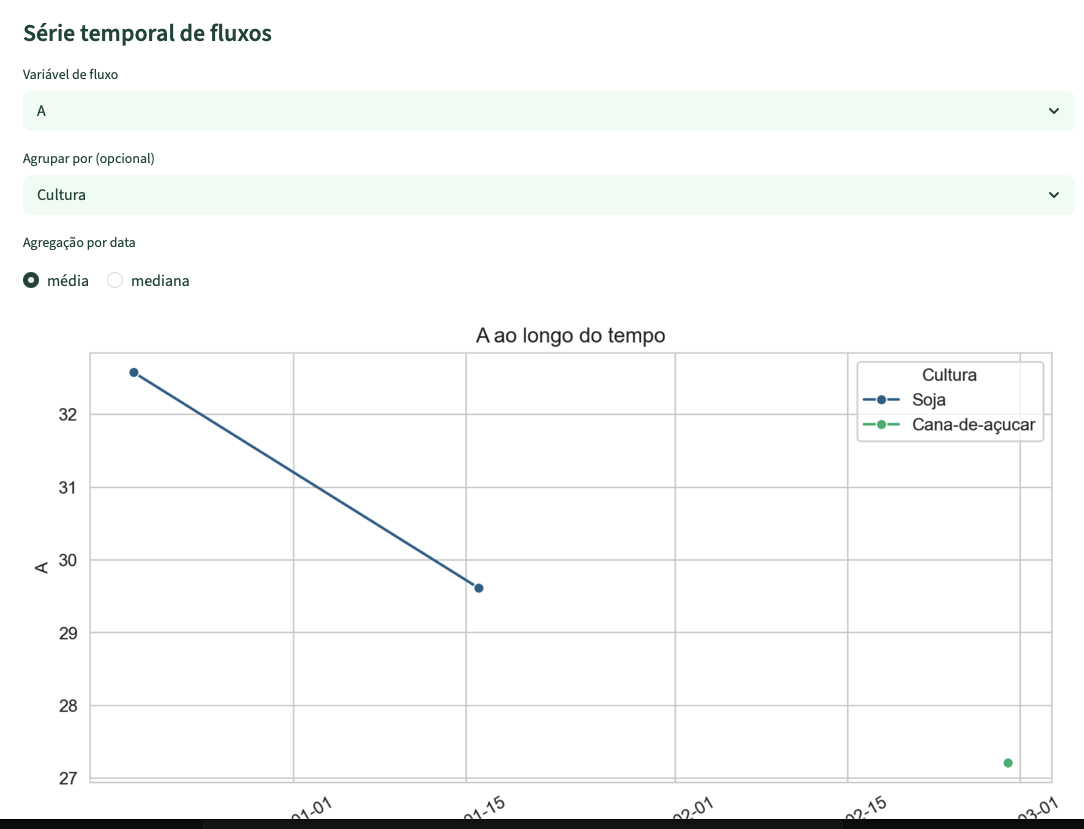
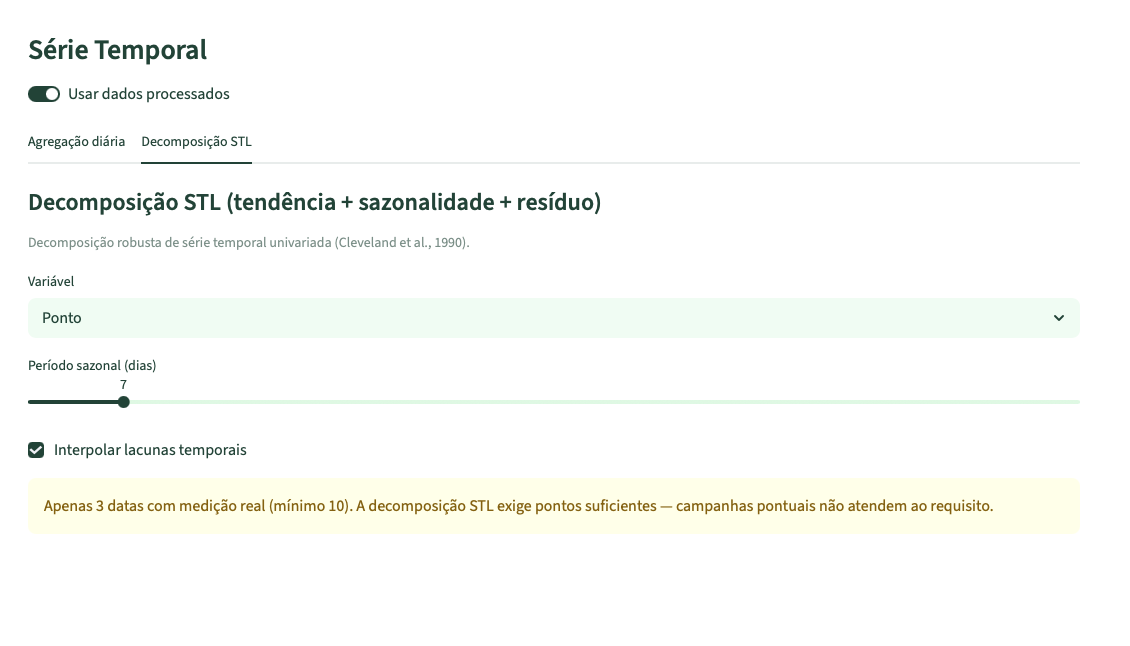
feat: update manual, settings, pages init and add comparative docs images

diff --git a/src/pages/__init__.py b/src/pages/__init__.py
@@ -1,8 +1,10 @@
+from src.pages.comparative import render as render_comparative_page
 from src.pages.eda import render as render_eda_page
 from src.pages.modeling import render as render_modeling_page
 from src.pages.pipeline import render as render_pipeline_page
 from src.pages.regression import render as render_regression_page
 from src.pages.spatial import render as render_spatial_page
+from src.pages.timeseries import render as render_timeseries_page
 from src.pages.upload import render as render_upload_page
 
 PAGE_RENDERERS = {
@@ -12,6 +14,8 @@ PAGE_RENDERERS = {
     "regression": render_regression_page,
     "modeling": render_modeling_page,
     "spatial": render_spatial_page,
+    "timeseries": render_timeseries_page,
+    "comparative": render_comparative_page,
 }
 
 __all__ = ["PAGE_RENDERERS"]

diff --git a/src/config/settings.py b/src/config/settings.py
@@ -74,6 +74,8 @@ NAVIGATION_ITEMS = [
     NavigationItem(key="regression", label_key="nav.regression", icon="graph-up-arrow"),
     NavigationItem(key="modeling", label_key="nav.modeling", icon="cpu"),
     NavigationItem(key="spatial", label_key="nav.spatial", icon="geo-alt"),
+    NavigationItem(key="timeseries", label_key="nav.timeseries", icon="clock-history"),
+    NavigationItem(key="comparative", label_key="nav.comparative", icon="bar-chart-steps"),
 ]
 
 PIPELINE_DROP_CANDIDATES = [

diff --git a/docs/manual.pt.md b/docs/manual.pt.md
@@ -877,30 +877,341 @@ Mostra os pontos amostrais coloridos por uma variável, **sobrepostos aos limite
 
 ## 10. Série temporal
 
-*[A ser preenchido na próxima iteração.]*
+> Página **Série Temporal** no menu lateral.
+
+Esta página é específica para análise **univariada longitudinal** — agrega uma variável por dia e, opcionalmente, decompõe a série em componentes de tendência, sazonalidade e resíduo. **Diferente da aba Temporal do EDA** (§6.8), aqui o foco é a **estrutura temporal formal** da série, não apenas a visualização exploratória.
+
+### 10.1 Detecção da coluna de data
+
+O app procura automaticamente uma coluna de data candidata: `Data da coleta`, `Data`, `Date`, `DATE_TIME initial_value` e similares (lista canônica em [`src/pipeline.py`](../src/pipeline.py) na função `find_date_column`). Desde a v1.1, a detecção também coage colunas com **dtype `object` contendo mistura de `datetime.datetime` + `str` + `NaN`** — caso típico do Excel exportado em datasets de campo.
+
+Se nenhuma coluna for detectada, a página exibe **"Coluna de data não encontrada"** e fica vazia. Verifique no Excel se a coluna de data está nomeada conforme uma das variantes aceitas e se as células estão como **datas reais** (não como texto).
+
+### 10.2 Agregação diária
+
+> Aba **Agregação diária**.
+
+Configurações:
+
+* **Variáveis para plotar** (multiselect) — uma ou mais.
+* **Método de agregação** (radio) — média ou mediana por dia.
+
+Cada variável vira uma linha colorida; o eixo X mostra as datas com formatação automática. Para o dataset Rio Verde, com apenas 3 datas de coleta, o gráfico aparece como 3 pontos ligados — útil para visualizar a evolução temporal, mas pouco interpretável estatisticamente.
+
+### 10.3 Decomposição STL
+
+> Aba **Decomposição STL**.
+
+A decomposição STL (*Seasonal-Trend decomposition using LOESS*, Cleveland et al., 1990) separa uma série temporal em três componentes:
+
+* **Tendência** — variação lenta de longo prazo.
+* **Sazonalidade** — padrão cíclico que se repete com período fixo.
+* **Resíduo** — ruído após remover tendência e sazonalidade.
+
+**Configurações:**
+
+* **Variável-alvo** (default: `FCO2_DRY` se existir, senão a primeira numérica).
+* **Período sazonal (dias)** — slider 2 a 60. Padrão 7 (sazonalidade semanal).
+* **Interpolar lacunas temporais** (checkbox) — preenche dias sem medição por interpolação linear no tempo.
+
+#### Guard-rails da STL
+
+Para evitar interpretações enganosas, o app impõe **dois bloqueios**:
+
+![Aviso de poucas datas para STL](img/manual/24_temporal_stl_bloqueado.png)
+
+| Condição | O que acontece |
+|---|---|
+| Menos de **10 datas com medição real** | A STL é bloqueada com aviso: *"Apenas N datas com medição real (mínimo 10). A decomposição STL exige pontos suficientes — campanhas pontuais não atendem ao requisito."* |
+| Interpolação cobre **mais de 70 %** da série | A STL roda, mas com aviso destacado: as métricas de força de tendência/sazonalidade refletem em grande parte a própria interpolação, não o sinal observado. |
+
+> **No dataset Rio Verde:** apenas 3 datas distintas (Dez/2025, Jan/2026, Fev/2026) → o app bloqueia a STL com mensagem clara. Este é o comportamento correto; a decomposição precisaria de campanhas mensais (~12 datas) ou semanais (~10+) para ser estatisticamente honesta.
+
+#### Saída quando a STL roda
+
+Quando há dados suficientes, a página produz quatro gráficos empilhados (Observado, Tendência, Sazonalidade, Resíduo) e três métricas:
+
+* **Força de tendência** — `1 − Var(resíduo) / Var(observado − sazonal)`. Próximo de 1 = tendência muito clara.
+* **Força de sazonalidade** — `1 − Var(resíduo) / Var(observado − tendência)`. Próximo de 1 = sazonalidade muito clara.
+* **n** — número de pontos da série após agregação/interpolação.
+
+---
 
 ## 11. Comparação por grupos
 
-*[A ser preenchido na próxima iteração.]*
+> Página **Comparação por grupo** no menu lateral.
+
+Esta página implementa o caso de uso clássico **"o Grupo A difere do Grupo B?"** com ferramentas estatísticas robustas. Diferentemente da aba Boxplot do EDA (§6.4), aqui você tem:
+
+* **Definição flexível dos grupos** — escolha manual de quais valores entram em A e B, ou pattern matching por substring.
+* **Teste estatístico formal** — Mann-Whitney U *two-sided* para cada variável.
+* **Regressão log-linear por grupo** — ajusta a relação log(Y) ~ X separadamente em A e B.
+* **Padrão horário** — agrega Y por hora do dia para cada grupo (útil para fluxos diurnos vs. noturnos).
+
+### 11.1 Configuração dos grupos
+
+![Configuração de Comparativa: Cana vs. Soja](img/manual/25_comparativa_setup.png)
+
+**Coluna categórica** — selectbox no topo. Define qual coluna será particionada em dois grupos. Padrão: `Cultura`.
+
+**Duas vias de definir A e B:**
+
+#### Modo manual (padrão)
+
+Dois multiselects, lado a lado:
+
+* **Valores no Grupo A** + rótulo customizável (default: primeiro valor da coluna).
+* **Valores no Grupo B** + rótulo customizável (default: o segundo valor).
+
+Você pode atribuir múltiplos valores a um mesmo grupo (ex.: agrupar "R1", "R2", "R3" num só "Estágio reprodutivo precoce").
+
+> **Validação automática:** se algum valor aparecer nos dois lados, o app exibe `st.error` e impede o avanço.
+
+#### Modo pattern matching
+
+Marque o checkbox **Classificar automaticamente por padrão de texto**. Aparece um campo de texto onde você digita um padrão (case-insensitive):
+
+* Valores que **contêm** o padrão → Grupo A (Match).
+* Valores que **não contêm** → Grupo B (Other).
+
+Útil quando a coluna tem muitos níveis (ex.: 14 estágios fenológicos) e você quer rapidamente separar "tudo que contém 'maturação'" do resto. O app mostra a lista de cada grupo em caption para você conferir antes de analisar.
+
+#### Métricas de N por grupo
+
+Após a configuração, duas métricas grandes mostram quantas linhas caíram em cada grupo:
+
+> **No dataset Rio Verde (modo Desdobrar):** Cana-de-açúcar = 54, Soja = 104. Em modo Média seria 27 vs. 54 — siga atento ao número porque ele governa o poder estatístico dos testes que vêm em seguida.
+
+### 11.2 Resumo & teste — Mann-Whitney U
+
+> Primeira aba dentro da Comparativa.
+
+Para cada variável numérica selecionada, devolve dois blocos:
+
+**Tabela de resumo descritivo** (`group`, `variable`, `n`, `mean`, `se`, `median`):
+
+**Tabela de teste de Mann-Whitney U:**
+
+![Tabela Mann-Whitney na Comparativa](img/manual/26_comparativa_mannwhitney.png)
+
+| Coluna | Significado |
+|---|---|
+| `variable` | A variável testada. |
+| `g1`, `g2` | Rótulos dos grupos. |
+| `n_g1`, `n_g2` | Tamanho de cada grupo. |
+| `U` | Estatística de Mann-Whitney. |
+| `p_value` | Probabilidade sob H₀ (mesma distribuição). |
+| `significant_5%` | `True` se p < 0,05. |
+
+#### Quando o Mann-Whitney é apropriado
+
+| Condição | Implicação |
+|---|---|
+| Os dois grupos têm forma de distribuição **similar** | Mann-Whitney compara medianas (interpretação direta). |
+| Distribuições têm formas **diferentes** | Mann-Whitney compara distribuições globais (rejeição não significa "mediana diferente", mas "distribuição diferente"). |
+| Há **pseudoreplicação** (réplicas no mesmo sítio) | n inflado → p artificialmente pequeno. Considere agregar por sítio (modo de réplica Média ou Mediana) antes de comparar. |
+
+> **No dataset Rio Verde:** rodando Cana vs. Soja em Latitude e Longitude, os p-values são da ordem de 10⁻⁸ — o que **não** significa que cana e soja têm "latitudes diferentes" no sentido fisiológico. Significa que **as duas fazendas estão em locais geograficamente distintos** e cada uma tem só uma cultura (lembre o confundimento Fazenda ⟷ Cultura). Para um achado biologicamente significativo, teste variáveis fisiológicas (`A`, `gs`, `E`, etc.) e leia em conjunto com a aba de Confundimento (§6.2).
+
+### 11.3 Log-linear por grupo
+
+> Segunda aba dentro da Comparativa.
+
+Ajusta uma regressão linear simples em escala **log(Y)** versus X, **separadamente para cada grupo**. Útil quando a relação Y-X é exponencial ou multiplicativa (saturação, decaimento).
+
+**Configurações:**
+
+* **Variável Y** (numérica) — só valores **estritamente positivos** entram (log(0) e log negativo são descartados silenciosamente).
+* **Variável X** (numérica).
+
+Saída: scatter colorido por grupo + retas ajustadas + tabela com `intercept`, `slope`, `R²`, `p_value`, `se_slope` por grupo.
+
+> **Cuidado quando Y tem valores ≤ 0:** o app descarta essas linhas antes do log. Se um grupo tem muitos negativos (caso de FCO2_DRY em uptake, FCH4_DRY em sumidouro), você compara N drasticamente diferentes entre os grupos, **comprometendo a comparabilidade**. Verifique sempre o `n` reportado em cada grupo no gráfico.
+
+### 11.4 Padrão horário
+
+> Terceira aba dentro da Comparativa.
+
+Para datasets com coluna de **data/hora** (não apenas data), extrai a hora de cada medição e calcula a média/mediana de Y por hora-do-dia, separadamente para cada grupo.
+
+Saída: dois gráficos lado a lado:
+
+* **Esquerda:** média (ou mediana) por hora, linha por grupo.
+* **Direita:** soma cumulativa por hora — útil para visualizar fluxo acumulado ao longo do dia (ex.: emissão de CO₂ diurna).
+
+Tabela exportável como CSV.
+
+> **No dataset Rio Verde:** a coluna `Data da coleta` tem apenas a parte de data (sem hora), então todas as medições caem na hora `00:00`. A aba fica visualmente vazia, exceto pela barra única em zero. Em datasets de fluxo de solo com timestamp completo (IRGA medindo a cada 1-2 horas) a aba é muito mais útil.
+
+---
 
 ## 12. Glossário estatístico
 
-*[A ser preenchido na próxima iteração.]*
+Definições curtas dos termos técnicos usados no manual. Para aprofundamento, ver as Referências (§14).
+
+* **Anderson-Darling** — teste de normalidade sensível a desvios nas caudas. Devolve estatística A² e valor crítico a 5 %; rejeita se A² > crítico.
+* **Cramér's V** — medida de associação entre duas variáveis categóricas, no intervalo [0, 1]. V=1 indica equivalência perfeita; usado no app para detectar confundimento.
+* **D'Agostino-Pearson (K²)** — teste de normalidade que combina assimetria e curtose. Robusto a empates; recomendado para n moderado.
+* **Elliptic Envelope** — método de detecção de outliers que assume **normalidade multivariada**. Pouco confiável em dados bimodais ou fortemente assimétricos.
+* **Getis-Ord Gi*** — estatística local que classifica cada ponto como hotspot (cluster de altos), coldspot (cluster de baixos) ou não significativo, com base em sua vizinhança via banda de distância.
+* **GroupKFold** — variante de validação cruzada que mantém todas as linhas de um mesmo "grupo" (sítio, fazenda, ponto) no mesmo fold. Evita inflar o R² quando há pseudoreplicação.
+* **IDW (Inverse Distance Weighting)** — interpolação determinística que estima cada ponto do grid como média ponderada dos pontos amostrados, com peso ∝ 1/distância^power.
+* **Isolation Forest** — algoritmo de detecção de outliers baseado em árvores aleatórias. Não-paramétrico, escala bem para muitas dimensões.
+* **Kruskal-Wallis (KW)** — teste não-paramétrico que compara distribuições entre 2 ou mais grupos. Equivale ao Mann-Whitney quando há exatamente 2 grupos.
+* **Kriging ordinária** — interpolação **estatística** baseada na estrutura espacial dos dados, ajustada via variograma. Devolve estimativas + incerteza.
+* **LISA (Local Indicators of Spatial Association)** — versão local do Moran's I; classifica cada ponto em HH, HL, LH, LL ou NS conforme seu valor e o da sua vizinhança.
+* **LOF (Local Outlier Factor)** — método de outliers baseado em densidade local. Marca pontos cuja vizinhança é menos densa que a dos seus vizinhos.
+* **Mann-Whitney U** — teste não-paramétrico para comparar duas amostras independentes. Equivalente ao Kruskal-Wallis com k=2.
+* **Moran's I** — índice de autocorrelação espacial global, no intervalo [-1, +1]. Positivo → valores similares se agrupam no espaço.
+* **Pearson (r)** — coeficiente de correlação linear. Sensível a outliers; pressupõe relação linear.
+* **Pseudoreplicação** — quando réplicas (medições) do mesmo sítio são tratadas como observações independentes. Infla o n efetivo e gera p-values otimistas.
+* **Q-Q plot** — gráfico que compara os quantis amostrais aos teóricos da normal. Pontos alinhados na diagonal indicam normalidade visual.
+* **Shapiro-Wilk (W)** — teste de normalidade. O mais sensível para n < 5000; padrão na literatura.
+* **Spearman (ρ)** — coeficiente de correlação por postos. Robusto a outliers e capta relações monotônicas não-lineares.
+* **STL (Seasonal-Trend decomposition using LOESS)** — decompõe uma série temporal em tendência, sazonalidade e resíduo via regressão local robusta.
+* **UTM (Universal Transverse Mercator)** — sistema de projeção cartográfica em metros. Rio Verde, GO fica no fuso 22 Sul (EPSG 32722).
+* **Variograma** — função que descreve a semivariância entre pares de pontos em função da distância. Parâmetros: nugget (variância em h=0), sill (assíntota) e range (distância em que estabiliza).
+* **VIF (Variance Inflation Factor)** — mede multicolinearidade. VIF=1/(1-R²) onde R² vem da regressão da variável contra todas as outras. VIF ≥ 10 indica colinearidade severa.
+* **Z-score** — número de desvios-padrão acima/abaixo da média. Critério |z|>3 marca outliers; **não-robusto** (o próprio outlier infla o desvio-padrão).
+
+---
 
 ## 13. Solução de problemas (FAQ)
 
-*[A ser preenchido na próxima iteração.]*
+### "Aparece `sidebar.rep.media` (ou outra chave crua) em vez do texto traduzido"
+
+O Streamlit cacheia o módulo de traduções no primeiro import. Se você atualizou o app após o servidor já estar rodando, as novas chaves não aparecem até reiniciar. **Solução:** `Ctrl+C` no terminal e `python -m streamlit run app.py` novamente.
+
+### "O pipeline esvaziou meu dataset (ou removeu quase tudo)"
+
+Vá em **Pipeline e Processamento** e leia o aviso amarelo destacado. A causa quase sempre é a etapa 2 — uma das colunas obrigatórias (`Cultura`, `Uso atual` ou `Época`) está vazia em muitas linhas. Volte ao Excel, identifique qual coluna está faltando, e refaça o upload com a planilha corrigida.
+
+### "A página Série Temporal diz 'Coluna de data não encontrada'"
+
+Verifique no Excel se sua coluna se chama `Data da coleta`, `Data`, `Date`, `DATE_TIME initial_value` ou alguma variante reconhecida (lista completa em [`docs/data_dictionary.md`](data_dictionary.md)). Se o nome estiver certo, abra a coluna e verifique se as células estão como **datas reais** (Excel mostra `2025-12-19` à direita) e não como **texto** ("2025-12-19" à esquerda). Salve o arquivo e recarregue.
+
+### "GroupKFold reduziu meus folds automaticamente"
+
+Significa que o número de grupos únicos na coluna escolhida é menor que o número de folds que você configurou. Por exemplo: você pediu 5 folds, mas só há 4 fazendas — o app ajusta para 4 folds. Se quiser manter os 5 folds, escolha uma coluna de agrupamento com mais níveis (ex.: `Fazenda + Ponto` em vez de só `Fazenda`).
+
+### "Algumas variáveis aparecem com VIF infinito ou astronômico"
+
+Isso é esperado para **variáveis derivadas matematicamente** de outras: `Ci/Ca` é Ci dividido por Ca (com Ca quase constante, vira reescala de Ci); `EUA = A/E`; `A/Ci` é uma razão; `ETR` é função de YII. VIF alto entre essas indica multicolinearidade **por construção**, não por problema dos dados. Inclua só uma representante do par derivado nos modelos.
+
+### "Moran's I deu 0,9 — meus dados são extremamente agregados espacialmente?"
+
+Antes de comemorar a descoberta de um cluster, confira a aba **Qualidade do EDA → Confundimento entre categorias**. Se `Fazenda ⟷ Cultura` (ou similar) aparecer como redundante, o Moran's I está captando **diferença biológica entre culturas** mais do que autocorrelação espacial verdadeira. Refaça o Moran filtrando para uma única cultura via filtro global, e veja se o índice permanece alto.
+
+### "O variograma de kriging não estabiliza"
+
+Provavelmente seu dataset não tem **estrutura espacial detectável** na escala do experimento (poucos pontos amostrais, ou variável dominada por outros fatores que não a posição). Não rode a krigagem nessa situação — os parâmetros ajustados (range em milhões de metros) são numericamente válidos mas estatisticamente inúteis. Considere voltar ao IDW (§9.1) ou rever a coleta.
+
+### "Os modos de réplica `Réplica 1`, `Réplica 2` e `Réplica 3` parecem dar resultados diferentes para Chl a e b"
+
+São diferentes mesmo — cada um pega uma medição específica da planilha. `Réplica 1` usa a coluna `Chl a` original; `Réplica 2` usa `Chl a.1`. **Réplica 3 deixa Chl a/b vazios** (só existe `IAF.2`, não `Chl a.2`). Use estes modos quando quiser auditar/comparar leituras específicas; para análise normal, use **Média** ou **Mediana**.
+
+---
 
 ## 14. Referências
 
-*[A ser preenchido na próxima iteração.]*
+### Métodos estatísticos
+
+* Anderson, T. W., & Darling, D. A. (1952). Asymptotic theory of certain "goodness of fit" criteria based on stochastic processes. *Annals of Mathematical Statistics*, 23(2), 193-212.
+* Bergsma, W., & Wicher, M. (2013). A bias-correction for Cramér's V and Tschuprow's T. *Journal of the Korean Statistical Society*, 42(3), 323-328.
+* Cleveland, R. B., Cleveland, W. S., McRae, J. E., & Terpenning, I. (1990). STL: A seasonal-trend decomposition procedure based on loess. *Journal of Official Statistics*, 6(1), 3-73.
+* D'Agostino, R. B., Belanger, A., & D'Agostino Jr., R. B. (1990). A suggestion for using powerful and informative tests of normality. *American Statistician*, 44(4), 316-321.
+* Getis, A., & Ord, J. K. (1992). The analysis of spatial association by use of distance statistics. *Geographical Analysis*, 24(3), 189-206.
+* Kruskal, W. H., & Wallis, W. A. (1952). Use of ranks in one-criterion variance analysis. *JASA*, 47(260), 583-621.
+* Mann, H. B., & Whitney, D. R. (1947). On a test of whether one of two random variables is stochastically larger than the other. *Annals of Mathematical Statistics*, 18(1), 50-60.
+* Moran, P. A. P. (1948). The interpretation of statistical maps. *Journal of the Royal Statistical Society, Series B*, 10(2), 243-251.
+* Shapiro, S. S., & Wilk, M. B. (1965). An analysis of variance test for normality. *Biometrika*, 52(3-4), 591-611.
+
+### Outliers e modelagem
+
+* Breunig, M. M., Kriegel, H. P., Ng, R. T., & Sander, J. (2000). LOF: Identifying density-based local outliers. *SIGMOD Record*, 29(2), 93-104.
+* Liu, F. T., Ting, K. M., & Zhou, Z. H. (2008). Isolation forest. *ICDM*, 413-422.
+* Rousseeuw, P. J., & van Driessen, K. (1999). A fast algorithm for the minimum covariance determinant estimator. *Technometrics*, 41(3), 212-223.
+
+### Fisiologia vegetal
+
+* Farquhar, G. D., von Caemmerer, S., & Berry, J. A. (1980). A biochemical model of photosynthetic CO₂ assimilation in leaves of C3 species. *Planta*, 149(1), 78-90.
+
+### Bibliotecas
+
+* McKinney, W. (2010). pandas — Data analysis with Python. <https://pandas.pydata.org>
+* Pedregosa, F. et al. (2011). Scikit-learn: Machine learning in Python. *JMLR*, 12, 2825-2830.
+* Rey, S. J., & Anselin, L. (2010). PySAL: A Python library of spatial analytical methods. <https://pysal.org>
+* Seabold, S., & Perktold, J. (2010). statsmodels: Econometric and statistical modeling. <https://www.statsmodels.org>
+* Streamlit Inc. (2024). Streamlit. <https://streamlit.io>
+* Virtanen, P. et al. (2020). SciPy 1.0. *Nature Methods*, 17, 261-272.
 
 ## 15. Contribuindo
 
 Encontrou um bug, tem uma sugestão de melhoria ou quer adicionar uma análise nova?
 
-* **Bug ou pedido de feature:** abra uma issue no repositório do projeto no GitHub.
-* **Contribuir com código ou documentação:** veja [`docs/contributing.md`](contributing.md) para o fluxo de PRs, padrões de teste e como adicionar traduções.
+### 15.1 Reportando bugs e propondo features
+
+Abra uma issue no repositório do projeto no GitHub. Inclua:
+
+1. **Versão do app** (verifique no rodapé ou no `pyproject.toml`).
+2. **Passos para reproduzir** — comece sempre por "fui à aba X, cliquei em Y, esperava Z mas vi W".
+3. **Captura de tela** (se for um problema visual).
+4. **Trecho do dataset** (anonimizado) que dispara o problema, sempre que possível.
+
+### 15.2 Contribuindo com código
+
+* Veja [`docs/contributing.md`](contributing.md) para o fluxo de PRs e padrões de teste.
+* Veja [`docs/architecture.md`](architecture.md) para entender o layout dos módulos.
+* Veja [`docs/i18n.md`](i18n.md) para adicionar um novo idioma ou estender as traduções.
+
+### 15.3 Gerando este manual em PDF
+
+A fonte canônica deste manual é o arquivo Markdown que você está lendo (`docs/manual.pt.md`). O PDF é um derivado, gerado por [pandoc](https://pandoc.org/) + XeLaTeX.
+
+#### Localmente
+
+```bash
+# 1) Pré-requisitos (uma vez por máquina)
+brew install pandoc                       # macOS
+brew install --cask basictex
+sudo tlmgr install fancyhdr xurl booktabs longtable
+
+# Ubuntu equivalente:
+# sudo apt-get install pandoc texlive-xetex \
+#   texlive-fonts-recommended texlive-latex-recommended
+
+# 2) Gerar o PDF
+scripts/build_manual_pdf.sh                       # → docs/manual.pt.pdf
+scripts/build_manual_pdf.sh --lang en             # quando existir manual.en.md
+scripts/build_manual_pdf.sh --output /tmp/x.pdf   # caminho customizado
+```
+
+O PDF é gerado em `docs/manual.<lang>.pdf` e o `.gitignore` impede que ele seja commitado por acidente.
+
+#### Via GitHub Actions
+
+O workflow [`build-manual.yml`](../.github/workflows/build-manual.yml) gera o PDF automaticamente:
+
+* **Push para tag `v*`** — anexa o PDF como artifact da release correspondente.
+* **Mudanças em `docs/manual.*.md`** ou nos screenshots — roda o build para validar que nada quebrou.
+* **Execução manual** — vá em *Actions → Build manual PDF → Run workflow* e escolha o idioma.
+
+Os artifacts ficam disponíveis por 30 dias e podem ser baixados sem precisar instalar pandoc localmente.
+
+### 15.4 Traduzindo para outros idiomas
+
+O esqueleto deste manual está pronto para receber espelhos em inglês e espanhol:
+
+```bash
+cp docs/manual.pt.md docs/manual.en.md
+cp docs/manual.pt.md docs/manual.es.md
+```
+
+Traduza o conteúdo mantendo a estrutura de cabeçalhos. As imagens em `docs/img/manual/` são compartilhadas entre os três idiomas — só precisa de uma cópia.
+
+---
+
+*Fim do manual. Versão 1.0 — alinhada à versão 1.x do aplicativo.*
 
 ### 15.1 Gerando este manual em PDF
 